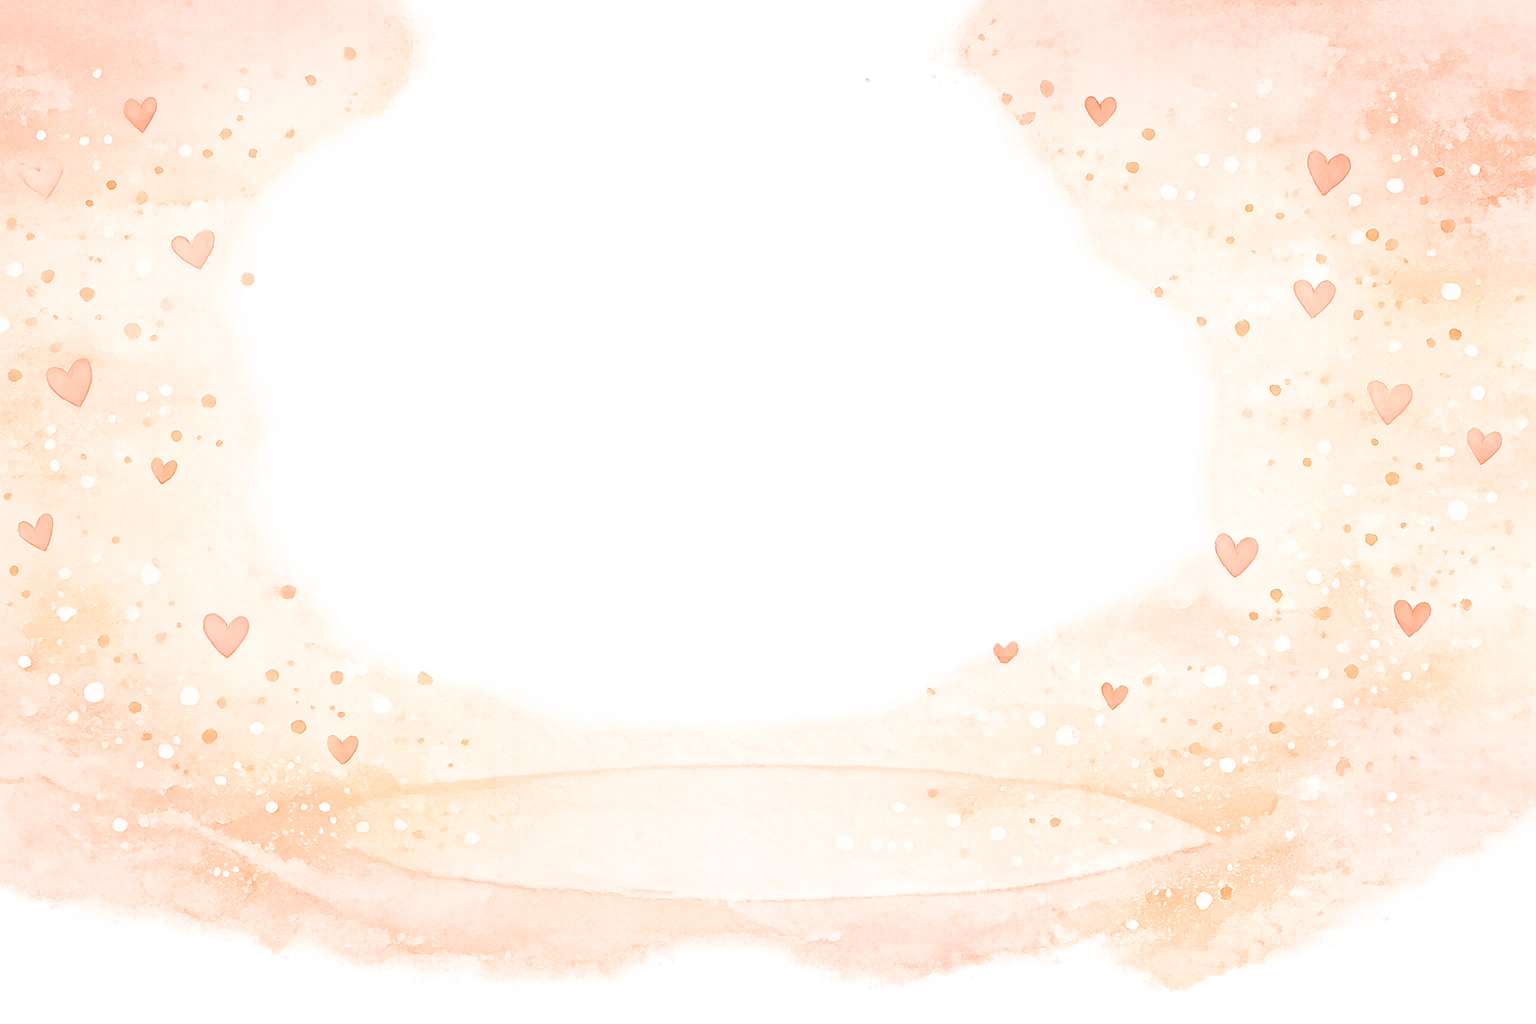
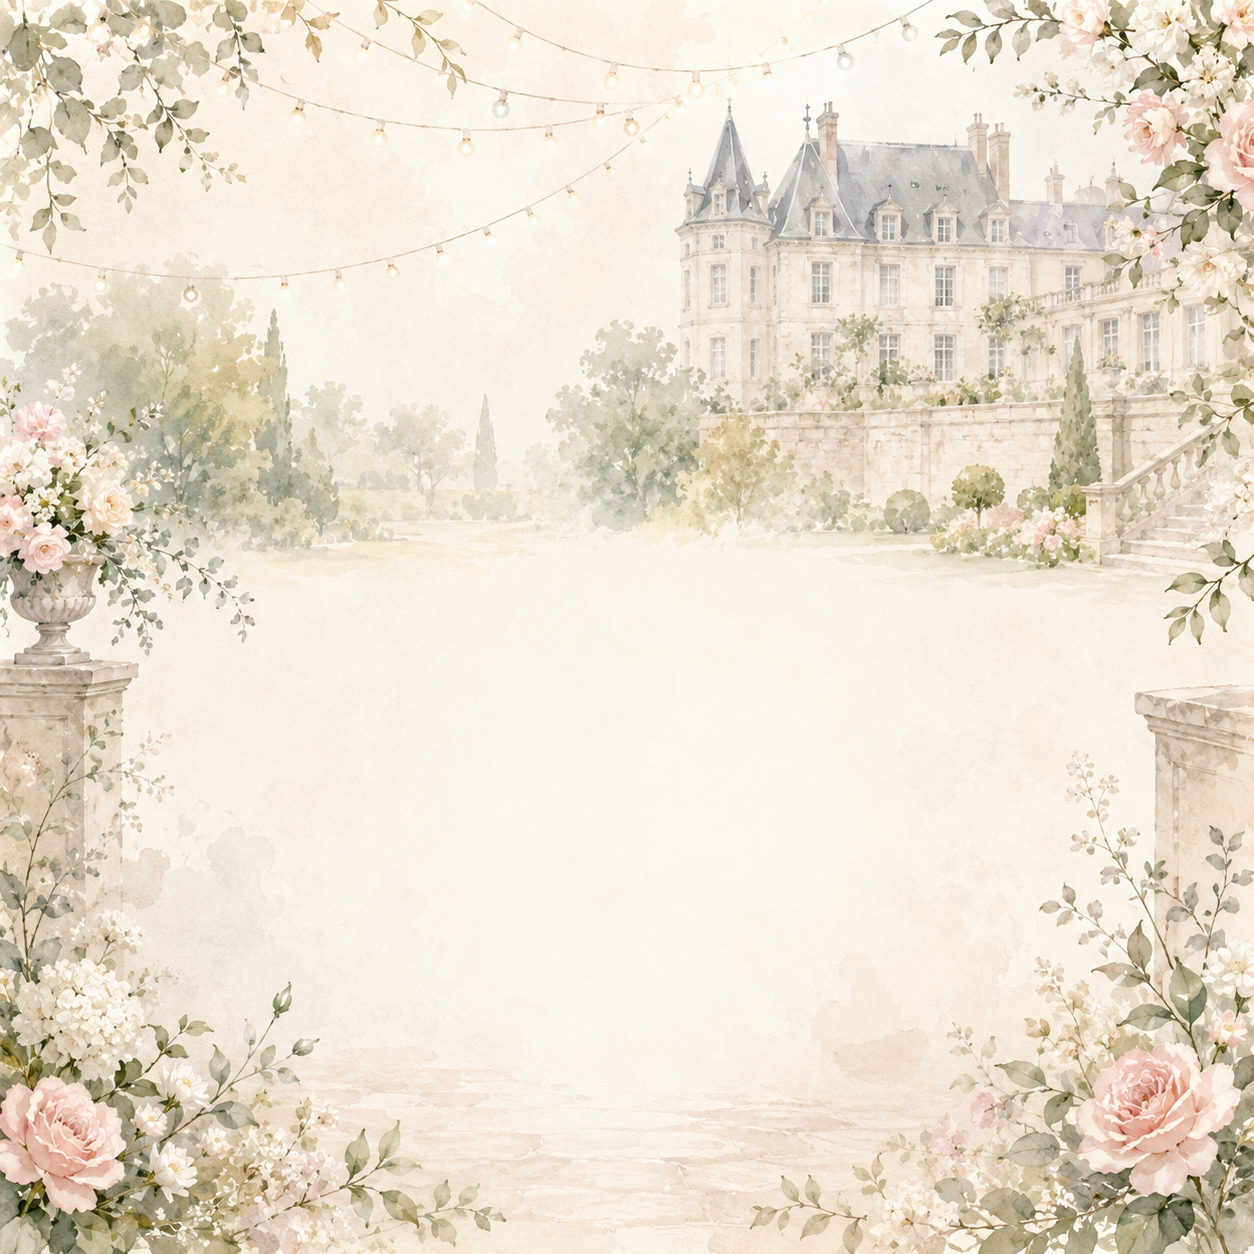
feat: fond aquarelle château sur le podium du classement quiz

diff --git a/src/pages/LeaderboardPage.jsx b/src/pages/LeaderboardPage.jsx
@@ -165,7 +165,7 @@ export function LeaderboardPage() {
       </div>
 
       {/* ─── Podium ─── */}
-      <div className="rounded-3xl border border-stone-100 px-4 pt-6 pb-0 overflow-hidden" style={{ backgroundImage: 'url(/assets/podium_background.png)', backgroundSize: 'cover', backgroundPosition: 'center' }}>
+      <div className="rounded-3xl border border-stone-100 px-4 pt-6 pb-0 overflow-hidden" style={{ backgroundImage: 'url(/assets/podium_background.png)', backgroundSize: 'cover', backgroundPosition: 'top center' }}>
         <div className="flex items-end justify-center gap-2">
           {podiumOrder.map((entry, i) => (
             <PodiumCard
